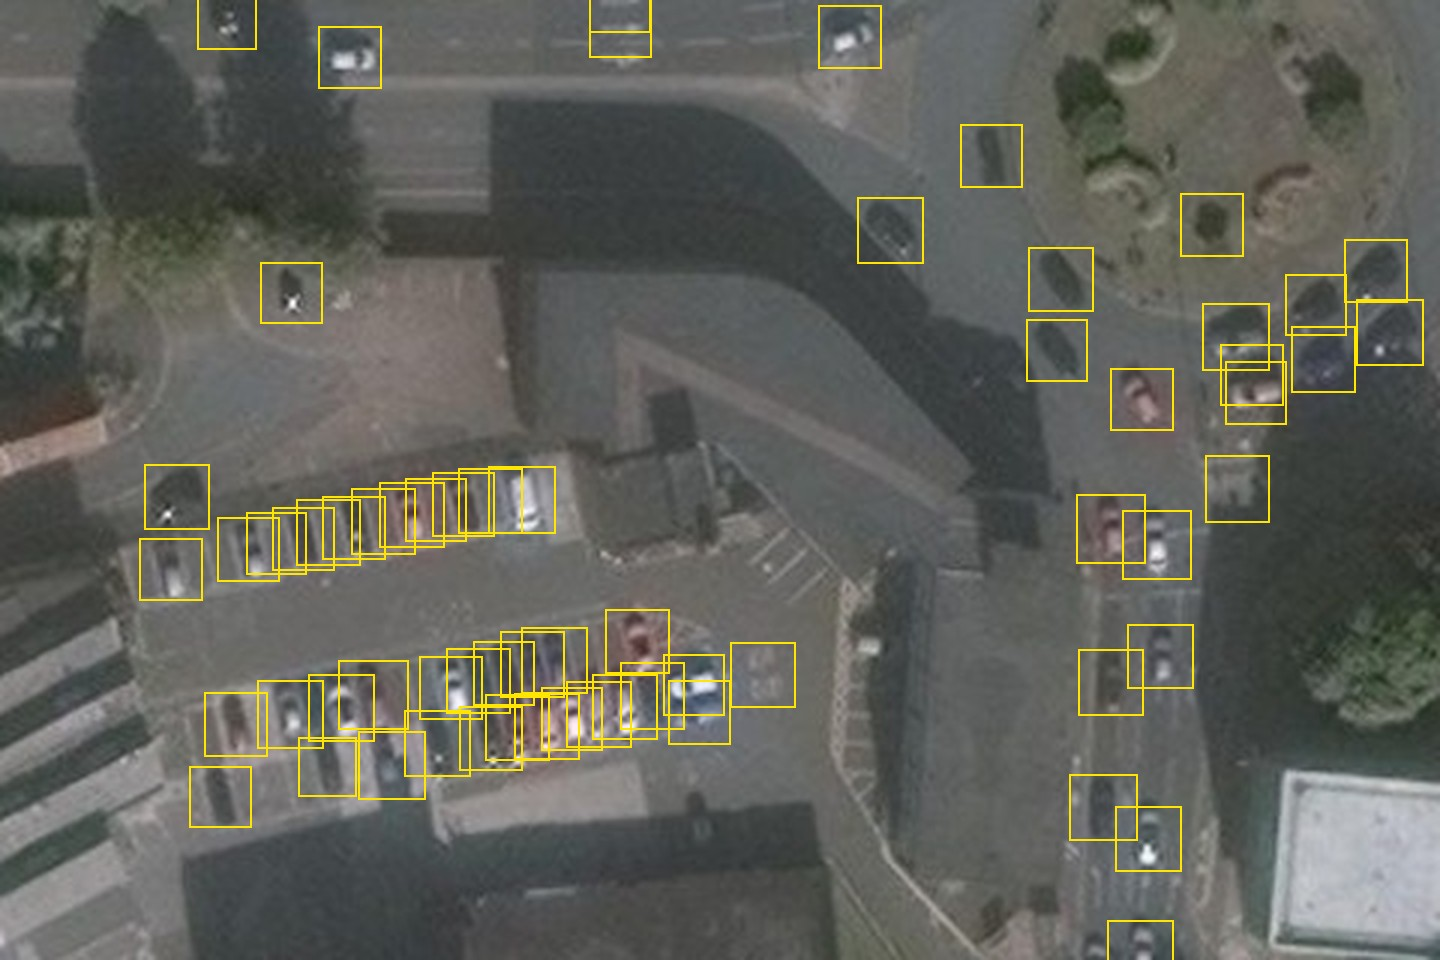
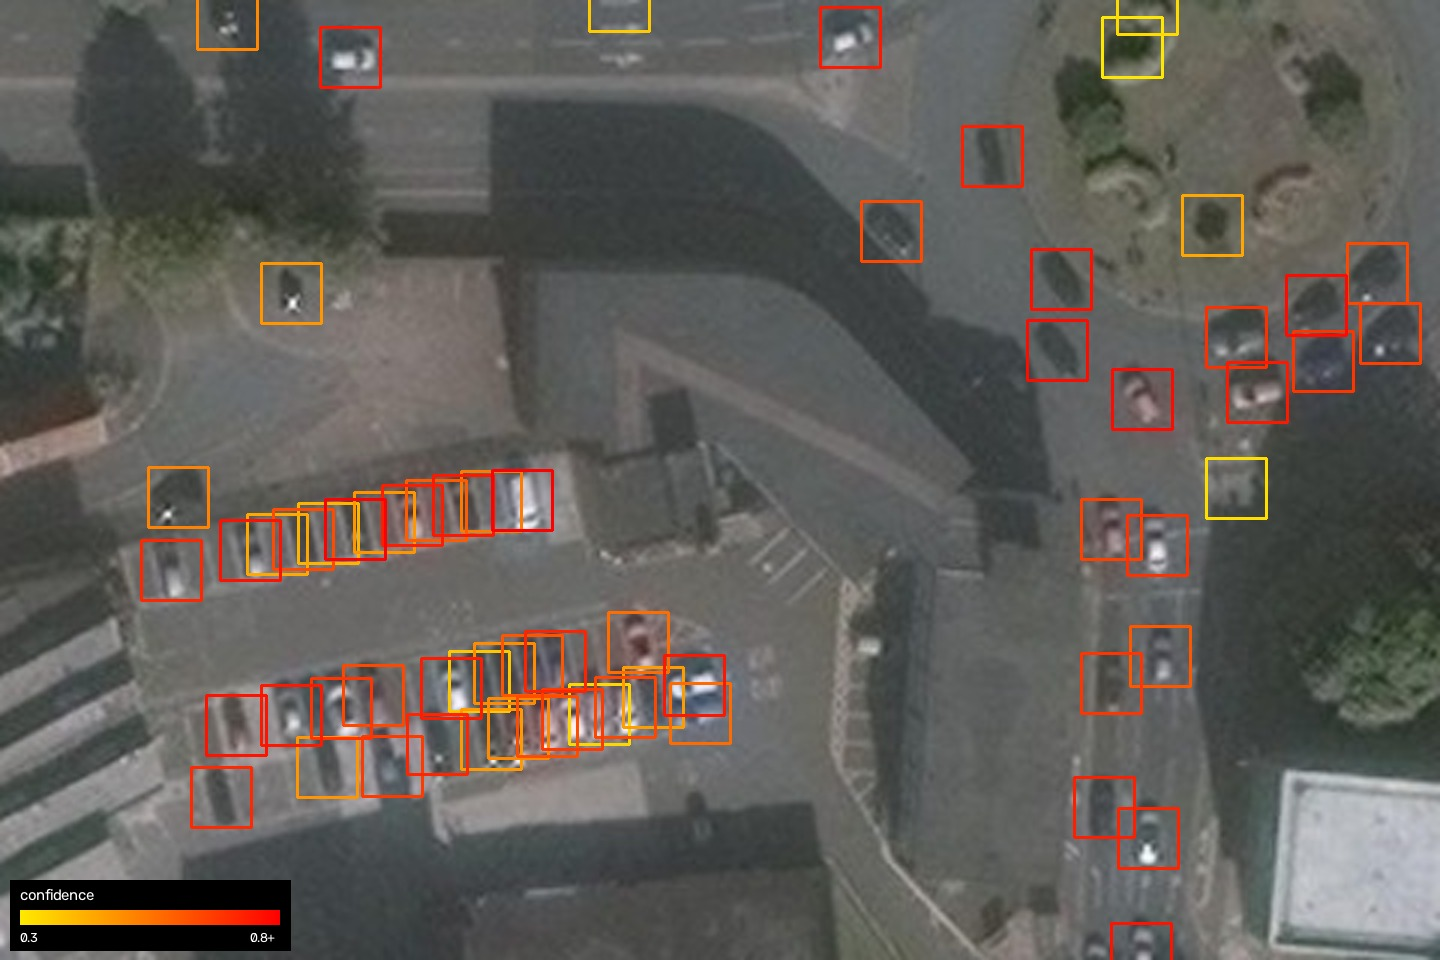
README: colour the hero boxes by confidence

diff --git a/README.md b/README.md
@@ -5,9 +5,10 @@ parked cars out of aerial imagery.
 
 ![cars found by the nano model on a Norwich tile](docs/hero.jpg)
 
-Detections (confidence 0.3 or more) from the nano model on a crop of Norwich, a town it never trained on. Boxes are a fixed
-20 px (5 m) square on each car's centre, so packed bays overlap. A few misses and false hits remain (a bush near the
-roundabout, a bin store at the right).
+Detections (confidence 0.3 or more) from the nano model on a crop of Norwich, a town it never trained on. Boxes run from
+yellow (just over the 0.3 cutoff) to red (0.8 or more confident) and are a fixed 20 px (5 m) square on each car's centre,
+so packed bays overlap. A few misses and false hits remain (bushes near the roundabout, a bin store at the right), mostly
+the yellow and orange boxes.
 
 ## What we found
 
